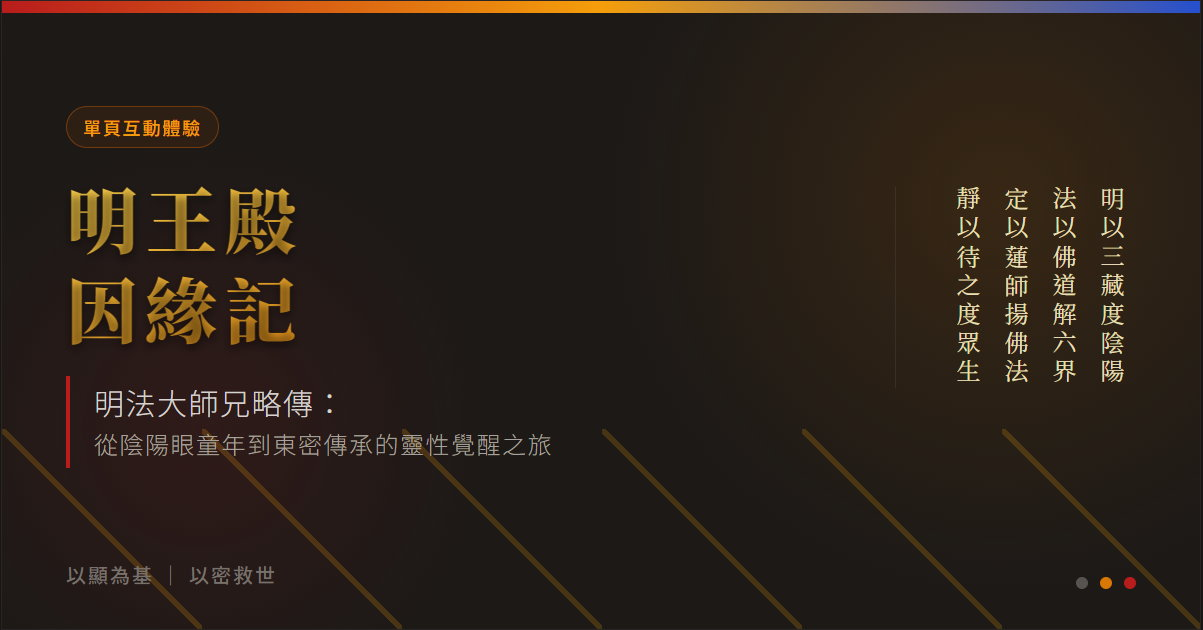
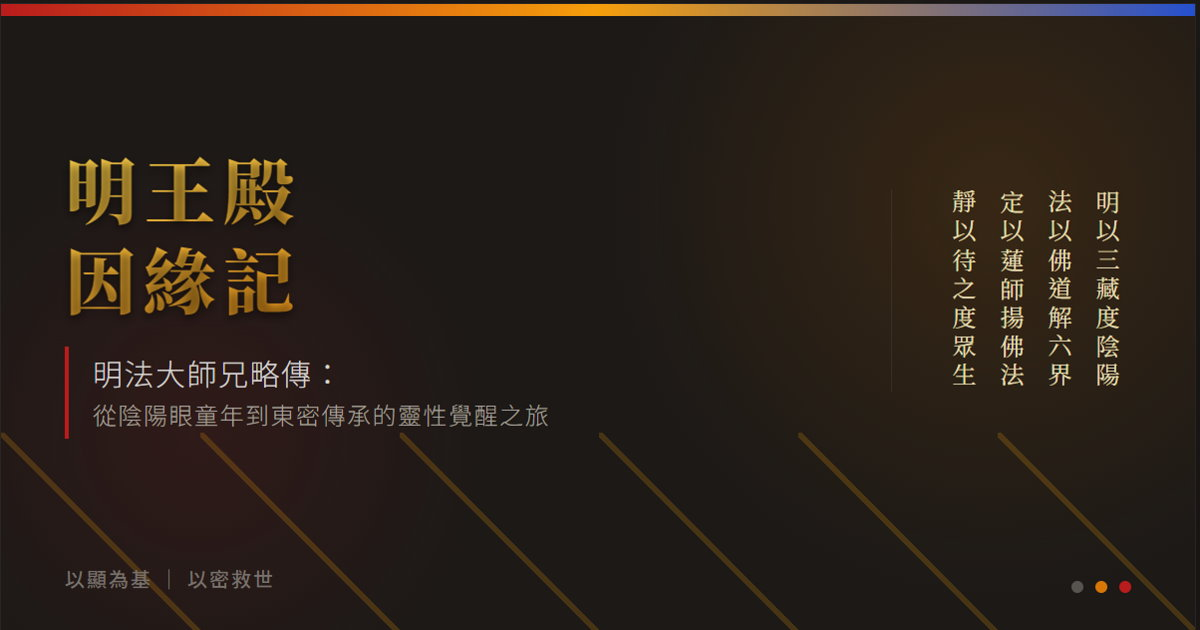
Add files via upload

diff --git a/index.html b/index.html
@@ -4,7 +4,7 @@
     <meta charset="UTF-8">
     <meta name="viewport" content="width=device-width, initial-scale=1.0">
 	<meta property="og:title" content="明王殿因緣記：靈性覺醒之旅">
-	<meta property="og:description" content="明法大師兄略傳：從陰陽眼童年到東密傳承的靈性覺醒互動體驗。">
+	<meta property="og:description" content="明法大師兄略傳：從陰陽眼童年到東密傳承的靈性覺醒。">
 	<meta property="og:image" content="og-image.jpg">
 	<meta property="og:type" content="website">	
     <title>明王殿因緣記：靈性覺醒之旅</title>
@@ -105,8 +105,7 @@
                 <p class="text-sm text-stone-400 mt-1">明法大師兄略傳：從陰陽眼童年到東密傳承</p>
             </div>
             <div class="mt-4 md:mt-0 flex gap-4 text-sm">
-                <span class="px-3 py-1 bg-stone-700 rounded-full border border-stone-600">單頁互動體驗</span>
-                <span id="reading-progress" class="px-3 py-1 bg-amber-900/50 rounded-full border border-amber-700 text-amber-200">進度：0%</span>
+                <span id="reading-progress" class="px-3 py-1 bg-amber-900/50 rounded-full border border-amber-700 text-amber-200">閱讀進度：0%</span>
             </div>
         </div>
     </header>
@@ -141,21 +140,19 @@
 
         <!-- Main Narrative Dashboard (Split View) -->
         <section class="grid grid-cols-1 lg:grid-cols-12 gap-6 min-h-[600px]">
-            
-            <!-- Left: Navigation (Table of Contents) -->
-            <aside class="lg:col-span-3 space-y-4">
-                <div class="bg-white rounded-xl shadow-sm overflow-hidden border border-stone-200 sticky top-24">
-                    <div class="bg-stone-100 p-4 border-b border-stone-200">
-                        <h3 class="font-bold text-stone-700">章節導覽</h3>
-                    </div>
-                    <div class="h-[500px] overflow-y-auto custom-scroll p-2 space-y-1" id="chapter-list">
-                        <!-- JS generated chapters -->
-                    </div>
-                </div>
-            </aside>
 
             <!-- Center: Reading Area -->
-            <article class="lg:col-span-6 bg-white rounded-xl shadow-md border border-stone-100 flex flex-col">
+            <article class="lg:col-span-8 bg-white rounded-xl shadow-md border border-stone-100 flex flex-col">
+                <!-- Navigation Dropdown Moved Here -->
+                <div class="p-4 border-b border-stone-200 bg-stone-50 rounded-t-xl flex flex-col sm:flex-row justify-between items-center gap-4">
+                    <h3 class="font-bold text-stone-700 whitespace-nowrap flex items-center gap-2">
+                        <span class="text-amber-600">☰</span> 章節導覽
+                    </h3>
+                    <select id="chapter-select" class="w-full sm:w-auto flex-grow max-w-xl p-2.5 border border-stone-300 rounded-lg focus:outline-none focus:ring-2 focus:ring-amber-500 bg-white text-stone-700 cursor-pointer shadow-sm">
+                        <!-- JS generated options -->
+                    </select>
+                </div>
+
                 <div class="p-6 border-b border-stone-100 bg-amber-50/50">
                     <div class="flex justify-between items-center mb-2">
                         <span id="part-label" class="text-xs font-bold tracking-widest text-amber-700 uppercase">第一部</span>
@@ -165,23 +162,24 @@
                     <blockquote id="chapter-quote" class="border-l-4 border-stone-400 pl-4 italic text-stone-600 bg-stone-50 py-2 rounded-r">
                         我怕的不是上學，是我又會看見他們。
                     </blockquote>
+                    
+                    <!-- Moved Navigation Buttons to Top -->
+                    <div class="mt-5 pt-4 border-t border-amber-200/50 flex justify-between">
+                        <button id="prev-btn" class="px-4 py-1.5 text-sm bg-white border border-stone-300 rounded hover:bg-stone-100 text-stone-600 transition disabled:opacity-50">← 上一章</button>
+                        <button id="next-btn" class="px-4 py-1.5 text-sm bg-amber-600 text-white rounded hover:bg-amber-700 shadow transition disabled:opacity-50">下一章 →</button>
+                    </div>
                 </div>
                 
-                <div class="p-6 md:p-8 flex-grow overflow-y-auto custom-scroll max-h-[600px]" id="content-area">
+                <div class="p-6 md:p-8 flex-grow overflow-y-auto custom-scroll max-h-[600px] rounded-b-xl" id="content-area">
                     <!-- Dynamic Content Here -->
                     <p class="text-stone-700 leading-loose text-lg">
                         載入中...
                     </p>
                 </div>
-
-                <div class="p-4 border-t border-stone-100 flex justify-between bg-stone-50 rounded-b-xl">
-                    <button id="prev-btn" class="px-4 py-2 bg-white border border-stone-300 rounded hover:bg-stone-100 text-stone-600 transition disabled:opacity-50">← 上一章</button>
-                    <button id="next-btn" class="px-4 py-2 bg-amber-600 text-white rounded hover:bg-amber-700 shadow transition">下一章 →</button>
-                </div>
             </article>
 
             <!-- Right: Context & Analysis Panel -->
-            <aside class="lg:col-span-3 space-y-6">
+            <aside class="lg:col-span-4 space-y-6">
                 
                 <!-- Dynamic Stats -->
                 <div class="bg-stone-800 text-stone-100 rounded-xl p-5 shadow-lg">
@@ -475,7 +473,7 @@
         let currentChapterIndex = 0;
 
         // DOM Elements
-        const chapterListEl = document.getElementById('chapter-list');
+        const chapterSelectEl = document.getElementById('chapter-select');
         const contentAreaEl = document.getElementById('content-area');
         const chapterTitleEl = document.getElementById('chapter-title');
         const chapterQuoteEl = document.getElementById('chapter-quote');
@@ -536,33 +534,30 @@
 
         // Initialize App
         function init() {
-            renderChapterList();
+            initDropdown();
             loadPart(0);
             updatePaginationButtons();
         }
 
-        function renderChapterList() {
-            chapterListEl.innerHTML = '';
-            storyData.forEach((part, index) => {
-                const partHeader = document.createElement('div');
-                partHeader.className = `p-2 text-xs font-bold text-stone-500 bg-stone-50 border-t border-stone-200 mt-2 cursor-pointer hover:bg-stone-100 ${index === currentPartIndex ? 'text-amber-600' : ''}`;
-                partHeader.textContent = `${part.part} (${part.age}歲)`;
-                partHeader.onclick = () => loadPart(index);
-                chapterListEl.appendChild(partHeader);
-
+        function initDropdown() {
+            chapterSelectEl.innerHTML = '';
+            storyData.forEach((part, pIndex) => {
+                const optGroup = document.createElement('optgroup');
+                optGroup.label = `${part.part} (${part.age}歲)`;
+                
                 part.chapters.forEach((chap, cIndex) => {
-                    const btn = document.createElement('button');
-                    btn.className = `w-full text-left px-4 py-2 text-sm rounded transition-colors ${
-                        index === currentPartIndex && cIndex === currentChapterIndex 
-                        ? 'bg-amber-100 text-amber-900 font-bold border-l-4 border-amber-600' 
-                        : 'text-stone-600 hover:bg-stone-50'
-                    }`;
-                    btn.textContent = `第${chap.id}章：${chap.title}`;
-                    btn.onclick = () => {
-                        loadPart(index, cIndex);
-                    };
-                    chapterListEl.appendChild(btn);
+                    const option = document.createElement('option');
+                    option.value = `${pIndex}-${cIndex}`;
+                    option.textContent = `第${chap.id}章：${chap.title}`;
+                    optGroup.appendChild(option);
                 });
+                chapterSelectEl.appendChild(optGroup);
+            });
+
+            // Add Event Listener
+            chapterSelectEl.addEventListener('change', (e) => {
+                const [pIndex, cIndex] = e.target.value.split('-').map(Number);
+                loadPart(pIndex, cIndex);
             });
         }
 
@@ -607,16 +602,16 @@
             });
 
             // 4. Update Navigation UI
-            renderChapterList();
+            chapterSelectEl.value = `${pIndex}-${cIndex}`;
             updatePaginationButtons();
             
             // Calculate Progress
             const totalParts = storyData.length;
             const progress = Math.round(((pIndex + 1) / totalParts) * 100);
-            readingProgressEl.textContent = `進度：${progress}%`;
+            readingProgressEl.textContent = `閱讀進度：${progress}%`;
             
-            // Scroll selected chapter into view in list
-            // (Simple implementation, can be improved)
+            // Scroll reading area to top
+            contentAreaEl.scrollTop = 0;
         }
 
         function updatePaginationButtons() {

diff --git a/thumbnail.html b/thumbnail.html
@@ -88,9 +88,6 @@
                 
                 <!-- 左側：主標題與副標題 -->
                 <div class="max-w-2xl">
-                    <div class="inline-block px-4 py-1.5 border border-amber-700/50 rounded-full text-amber-500 text-lg font-medium tracking-widest mb-6 bg-amber-900/20">
-                        單頁互動體驗
-                    </div>
                     <h1 class="text-7xl font-black text-transparent bg-clip-text bg-gradient-to-br from-amber-300 to-amber-600 serif tracking-widest leading-tight mb-6" style="text-shadow: 0 4px 10px rgba(0,0,0,0.5);">
                         明王殿<br>因緣記
                     </h1>
